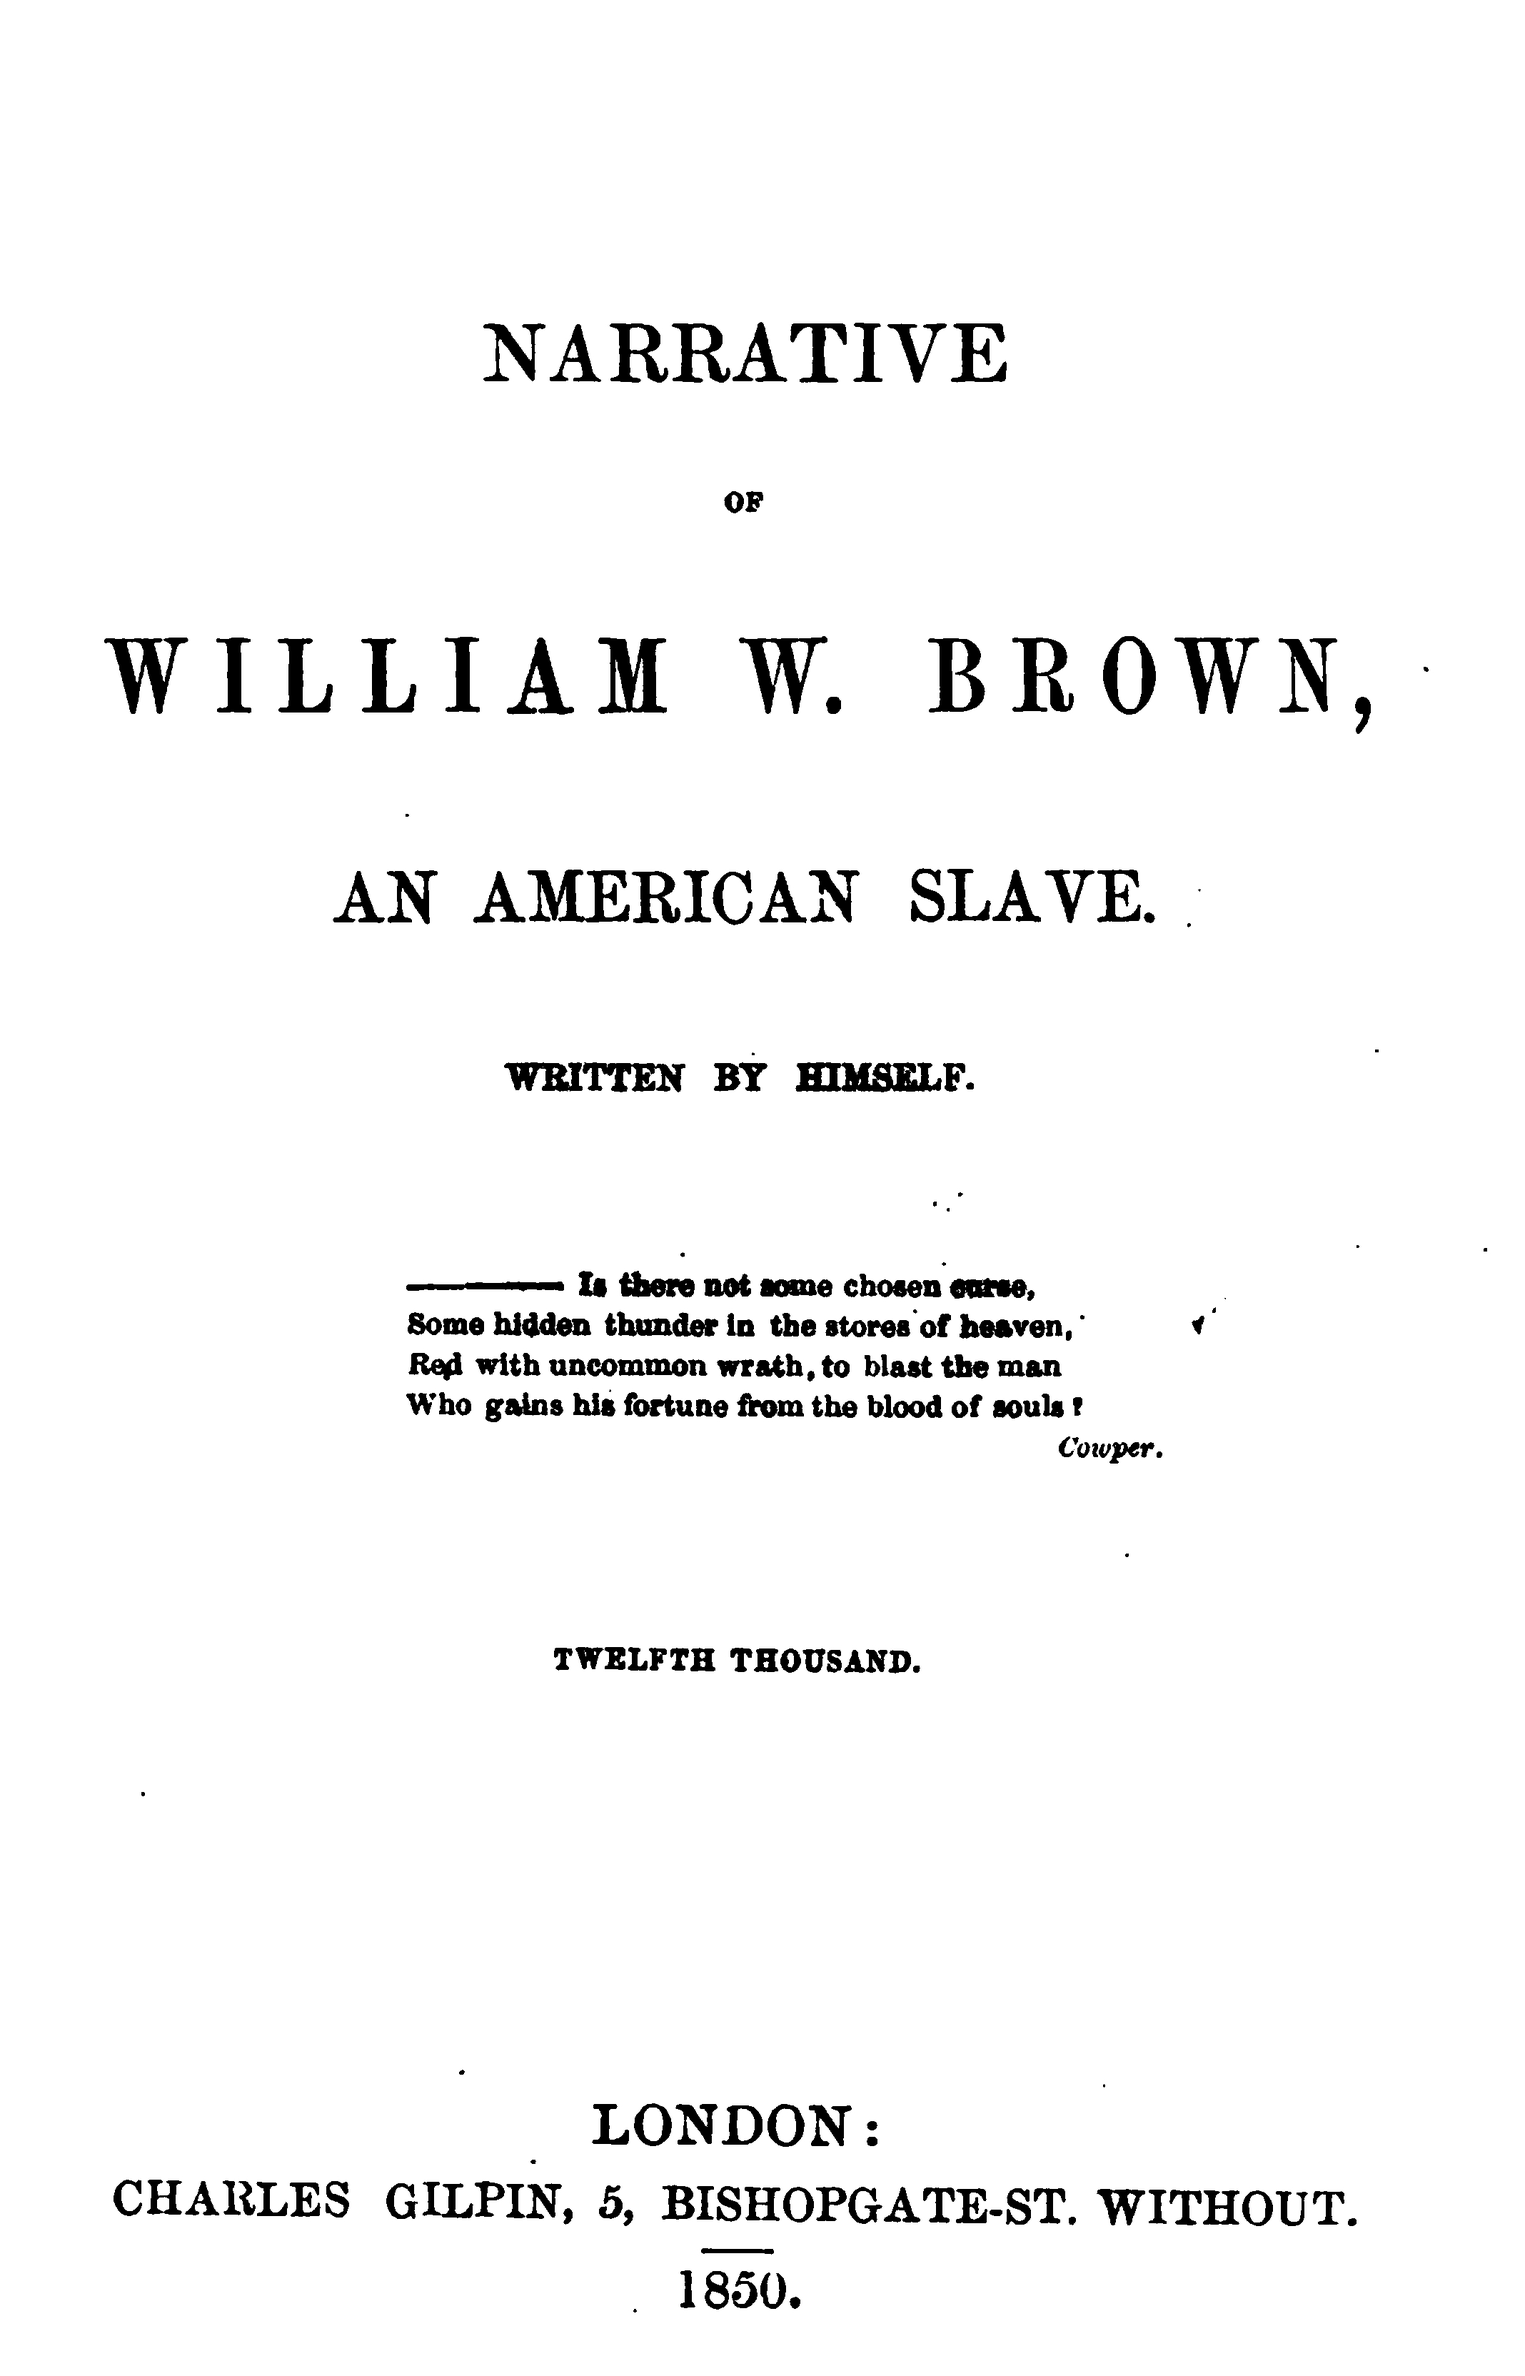
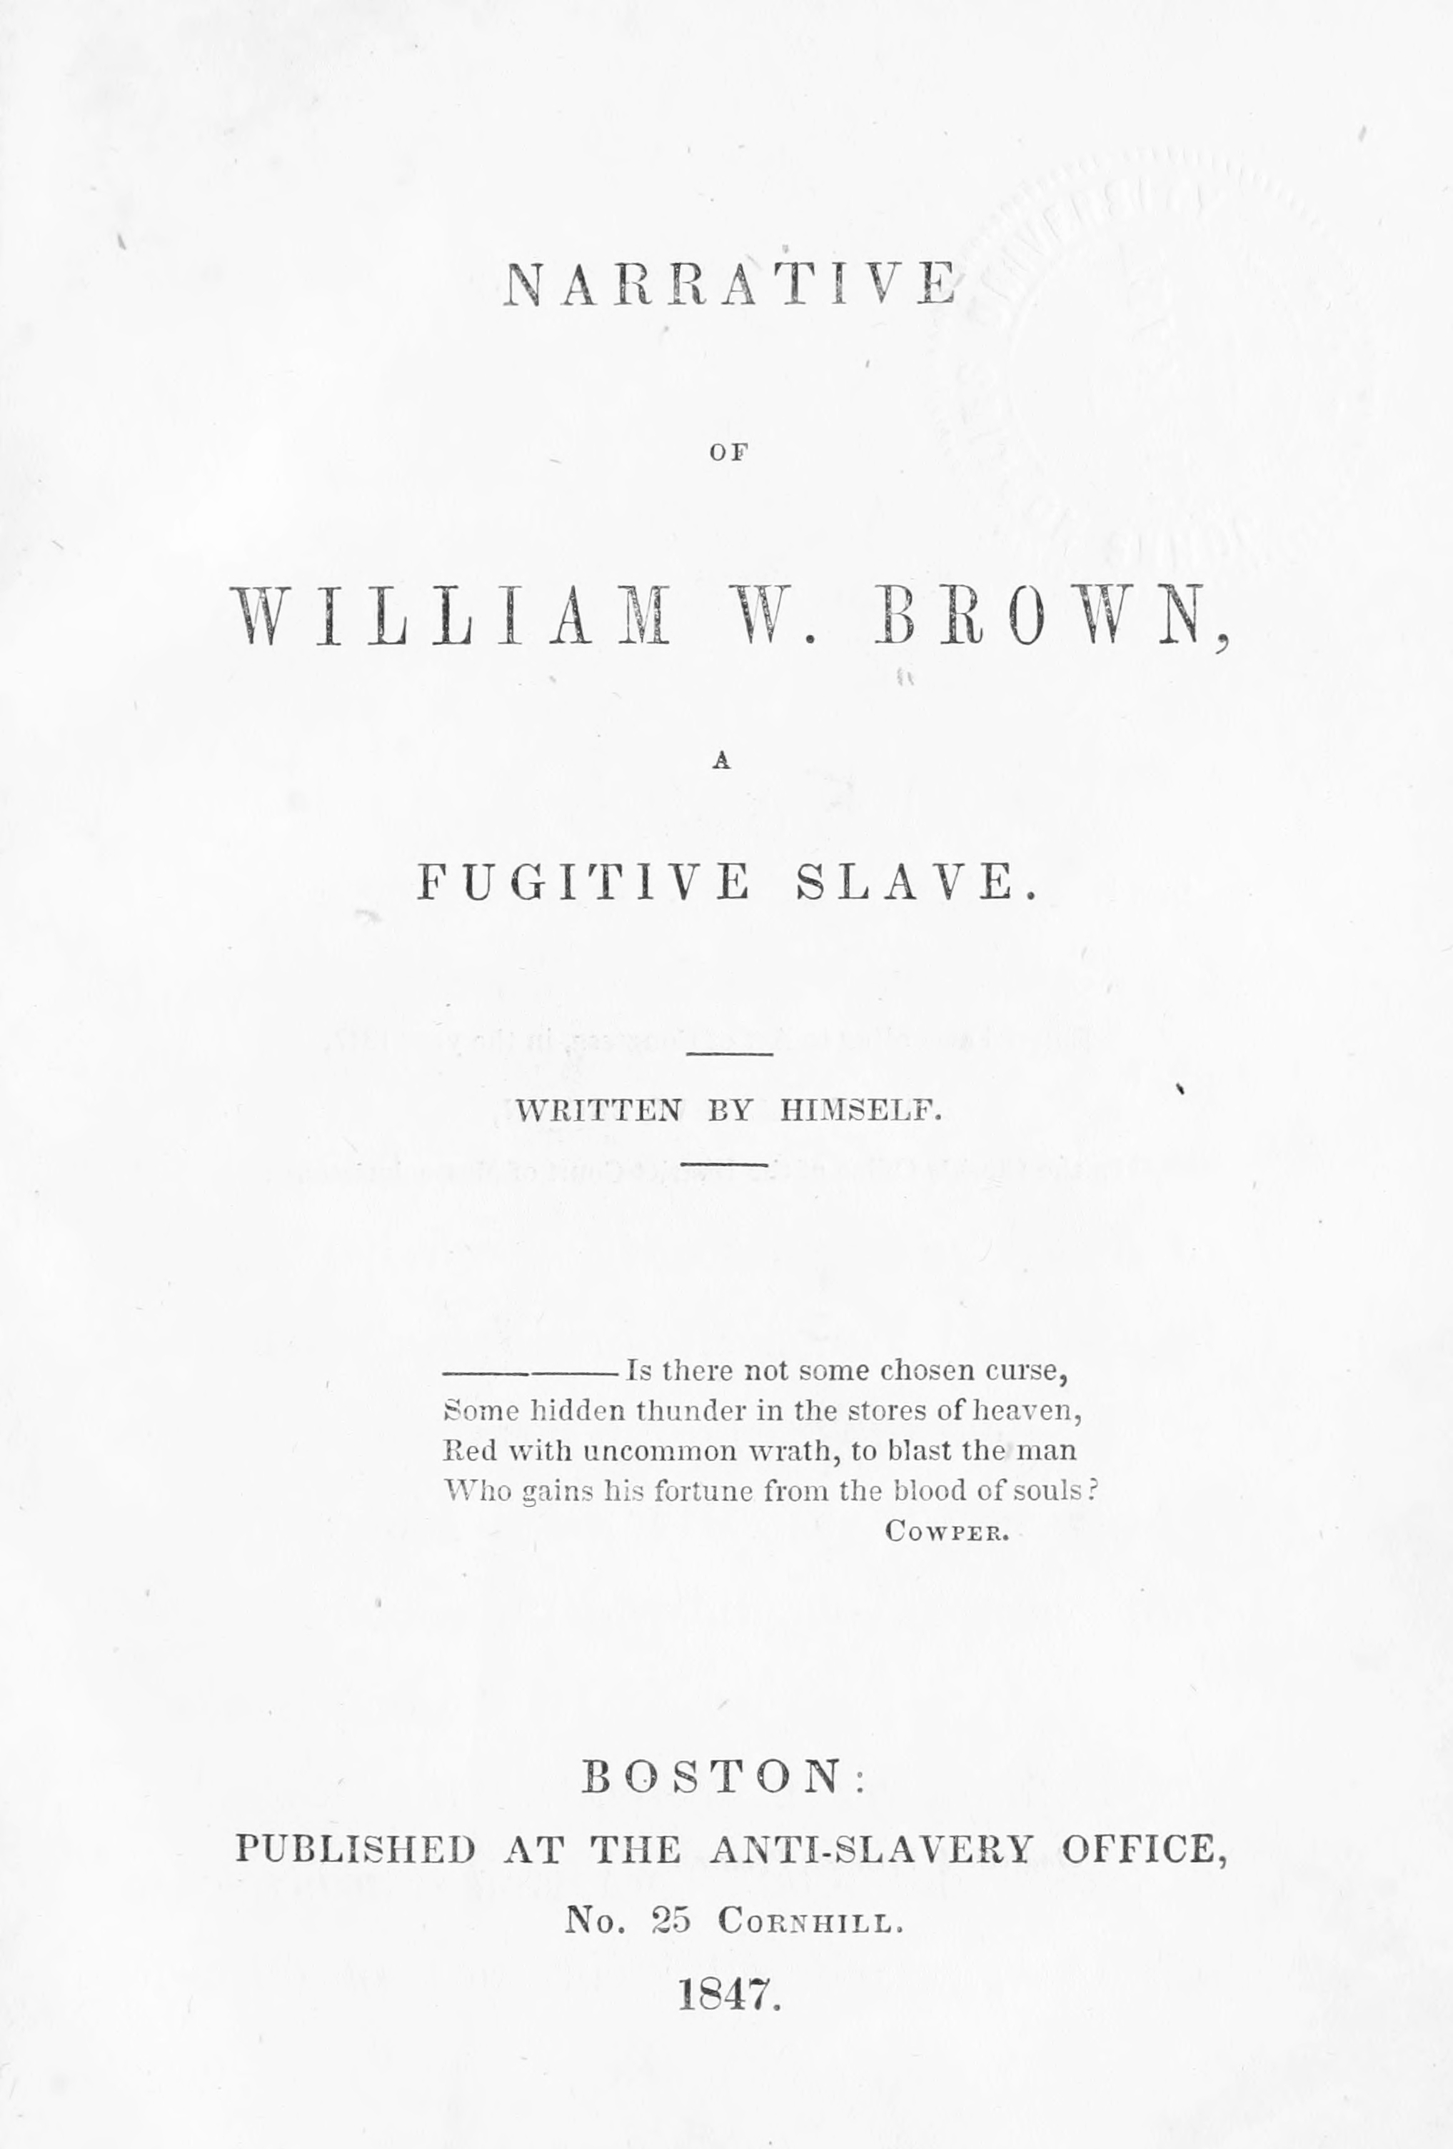
substituindo frontispicio

diff --git a/ORIGINAIS.tex b/ORIGINAIS.tex
@@ -242,7 +242,7 @@ Farmington, Nova York, 1847.
 \begin{figure}[H]
 \begin{adjustwidth}{-1.8cm}{}
   %\centering
-  \vspace*{-2.5cm}
+  \vspace*{-2.6cm}
   %\hspace{-0.5cm}
   \includegraphics[width=133mm]{./imgs/front1.jpg}  
   %\hfill
@@ -260,14 +260,14 @@ Farmington, Nova York, 1847.
 \begin{absolutelynopagebreak}
 \begin{vplace}
 \begin{figure}[H]
-\begin{adjustwidth}{-1.3cm}{}
+\begin{adjustwidth}{-1.8cm}{}
   %\centering
-  \vspace*{-2.5cm}
+  \vspace*{-2.6cm}
   %\hspace{-0.5cm}
-  \includegraphics[width=125mm]{./imgs/front2.jpg}  
+  \includegraphics[width=133mm]{./imgs/front2.jpg}  
   %\hfill
 \end{adjustwidth}
-  \caption{Frontispício da segunda edição da autobiografia de William Wells Brown, publicada em Londres em 1850.}
+  \caption{Frontispício da primeira edição da autobiografia de William Wells Brown, publicada em Boston em 1847.}
 \end{figure}
 \end{vplace}
 
